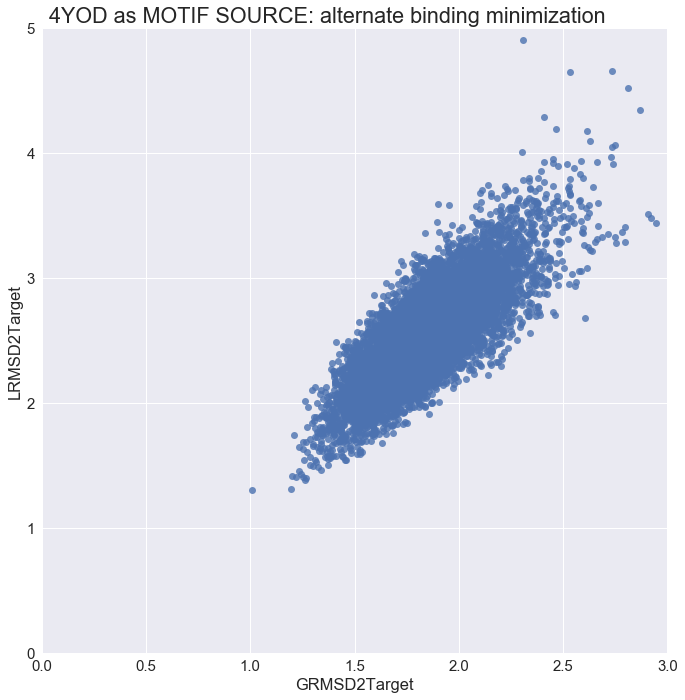
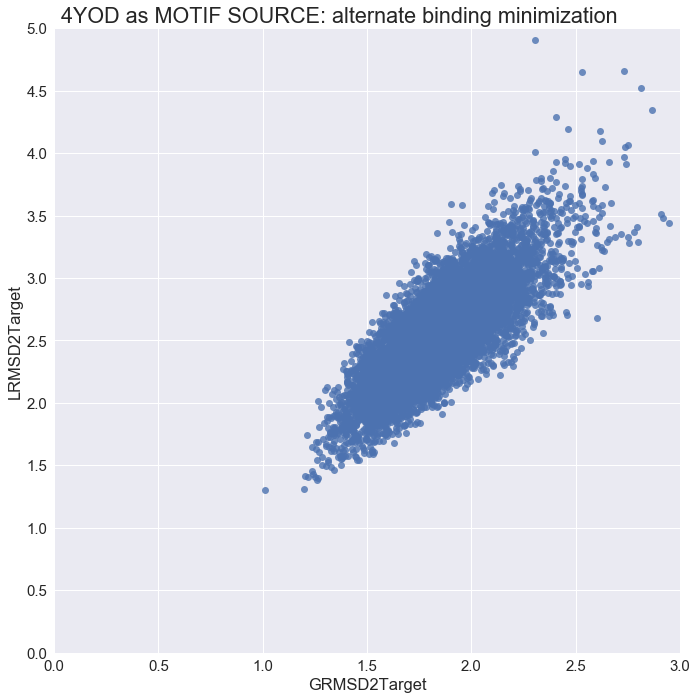
updated bcl2 experiment readme

diff --git a/benchmark/scientific/bcl2/experiments/from4oyd/README.md b/benchmark/scientific/bcl2/experiments/from4oyd/README.md
@@ -65,6 +65,7 @@ import matplotlib.pyplot as plt
 import rstoolbox
 import pandas as pd
 import seaborn as sns
+import numpy as np
 import copy
 
 sns.set(font_scale=1.5)
@@ -95,6 +96,7 @@ g = sns.lmplot(x="GRMSD2Target", y="LRMSD2Target", data=minb_alt_data, fit_reg=F
 plt.subplots_adjust(top=0.95)
 g.axes[0,0].set_ylim(0,5)
 g.axes[0,0].set_xlim(0,3)
+g.axes[0,0].set_yticks(np.arange(0,5.5,0.5))
 g.fig.suptitle('4YOD as MOTIF SOURCE: alternate binding minimization')
 sns.plt.show()
 ```
